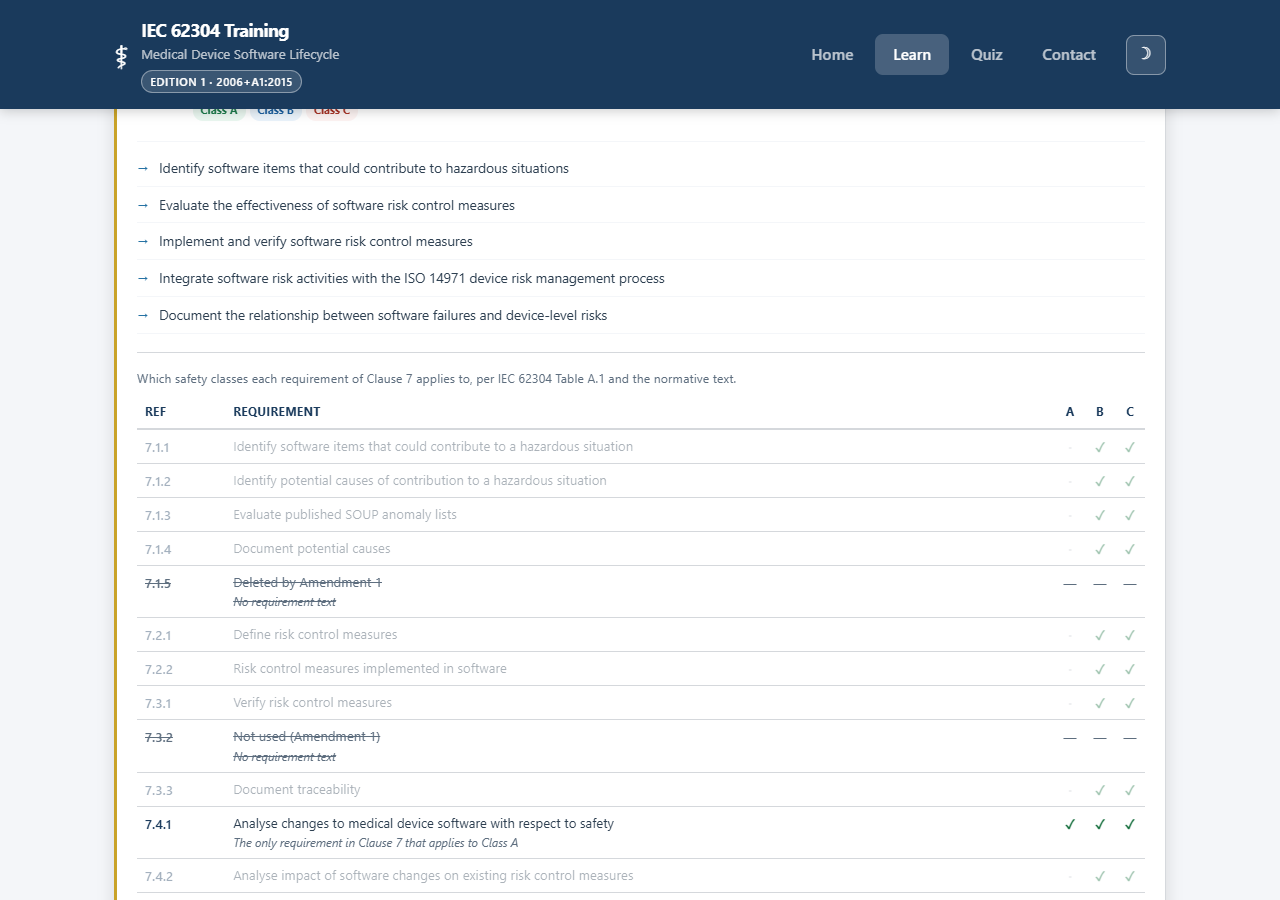
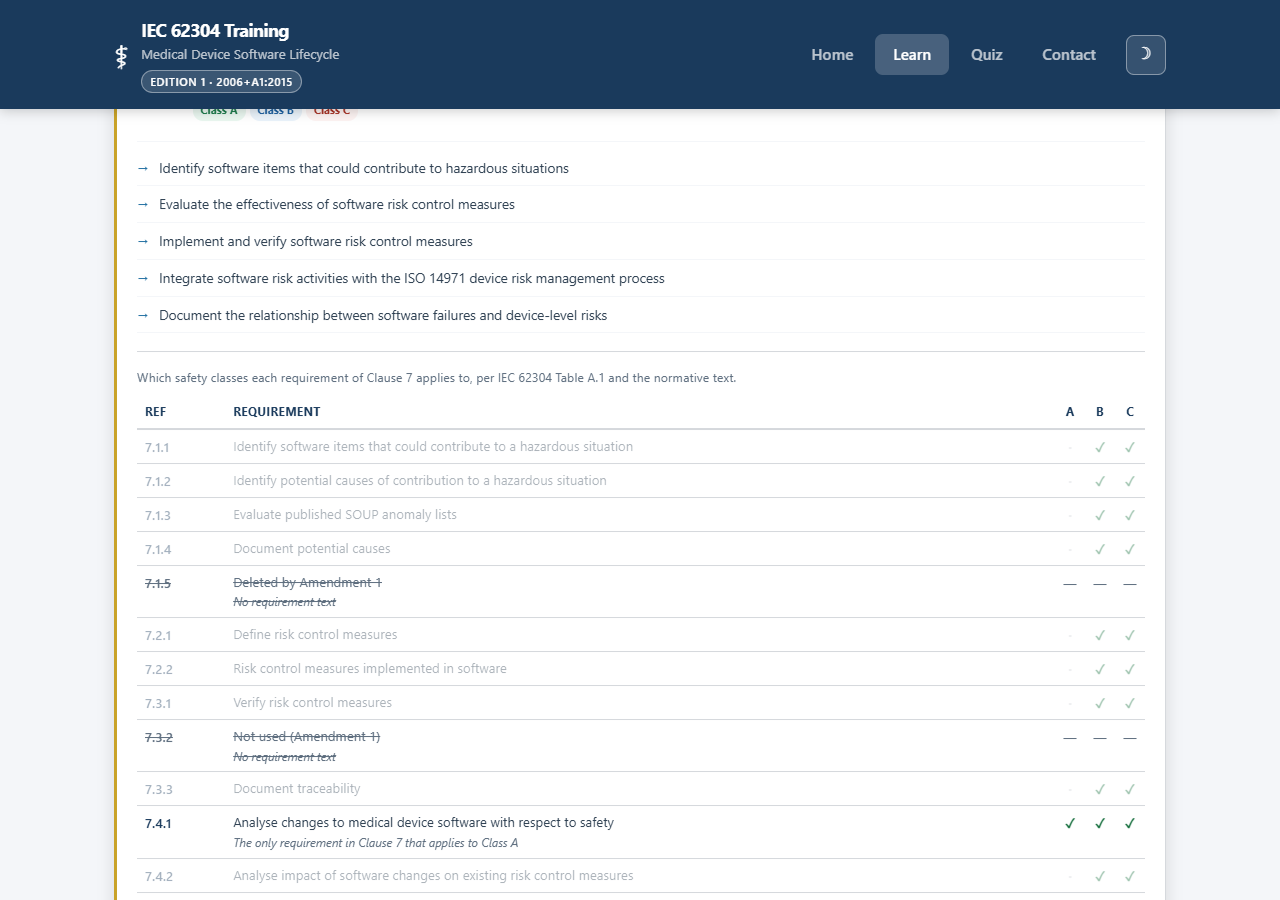
Ensure topics marked as studied have been opened by checking if the document was previewed or document before allowing an item to be marked as studied.  Update testing to reflect this change as well as requirements docs and README.

diff --git a/docs/08-software-system-testing.html b/docs/08-software-system-testing.html
@@ -73,13 +73,13 @@
 <div class="doc-table-wrap" tabindex="0" role="group" aria-label="Table: Ref, Title, Applies at, Output"><table class="legal-table"><thead><tr><th scope="col">Ref</th><th scope="col">Title</th><th scope="col">Applies at</th><th scope="col">Output</th></tr></thead><tbody><tr><td>5.7.1</td><td>Establish tests for software requirements</td><td>A, B, C</td><td>A set of tests covering all software requirements: input stimuli, expected outcomes, pass/fail criteria, procedures</td></tr><tr><td>5.7.2</td><td>Use software problem resolution process</td><td>A, B, C</td><td>—</td></tr><tr><td>5.7.3</td><td>Retest after changes</td><td>A, B, C</td><td>—</td></tr><tr><td>5.7.4</td><td>Evaluate software system testing</td><td>A, B, C</td><td>Recorded traceability between requirements and tests, plus evidence results meet pass/fail criteria</td></tr><tr><td>5.7.5</td><td>Test record contents</td><td>A, B, C</td><td>Test case reference, result and anomalies, software version tested, hardware/software test configuration, test tools, date, tester identity</td></tr></tbody></table></div>
 <p>(All five apply to every class — Amendment 1 moved 5.7 from B/C-only to all classes; see <a href="../index.html#safety-class-applicability">README.md — Safety Class Applicability</a> for why that history matters to how this data is maintained.)</p>
 <h2 id="571--the-test-set">5.7.1 — The test set</h2>
-<p><a href="../tests/test_site.py"><code>tests/test_site.py</code></a> is this project's system test suite: <strong>601 checks</strong> across 12 groups, run against a real Chrome/Chromium browser driven by Playwright, over a server the script starts itself. Its own docstring states the design directly:</p>
+<p><a href="../tests/test_site.py"><code>tests/test_site.py</code></a> is this project's system test suite: <strong>606 checks</strong> across 12 groups, run against a real Chrome/Chromium browser driven by Playwright, over a server the script starts itself. Its own docstring states the design directly:</p>
 <blockquote><p><em>"It is a black-box test suite. It does not import or inspect the site's JavaScript; it drives the pages the way a person would — clicking, typing, reading what appears — and asserts on the result."</em></p></blockquote>
 <div class="doc-table-wrap" tabindex="0" role="group" aria-label="Table: Group, What it covers"><table class="legal-table"><thead><tr><th scope="col">Group</th><th scope="col">What it covers</th></tr></thead><tbody><tr><td><code>data</code></td><td>JSON parses; correct counts; no duplicate ids/questions; every <code>correct</code> index in range; all required fields present</td></tr><tr><td><code>applicability</code></td><td>Sub-clause mapping is complete; clause-level classes equal the union of sub-clause classes; spot checks against the standard; rendered rows/counts; <strong>regression test reintroducing the original Clause 7 error</strong></td></tr><tr><td><code>deliverables</code></td><td>Per-class output counts; CSV filename/BOM/CRLF/columns/escaping; print output; §4.1/§4.2 cross-references</td></tr><tr><td><code>docs</code></td><td>Every card's example-document Preview/Download links resolve correctly; every rendered page in this folder loads without a JS error, carries the training-example banner, links back to the right card, has no horizontal overflow, and passes axe</td></tr><tr><td><code>learn</code></td><td>Card rendering; expand/collapse by mouse and keyboard; level toggle; class filters; filter notice; progress tracker; async failure paths (404, malformed JSON, empty list, retry)</td></tr><tr><td><code>quiz</code></td><td>Name validation; scoring; timer; full pass/fail runs; certificate; shuffling; prefetch; error states</td></tr><tr><td><code>contact</code></td><td>Field validation; request contents; success/422/429/404/503/network-failure paths; double-submit guard; honeypot</td></tr><tr><td><code>privacy</code></td><td>Notice content; footer links; provenance section</td></tr><tr><td><code>version</code></td><td>Version chip; Edition 2 notice; machine-readable review date</td></tr><tr><td><code>theme</code></td><td>Toggle, persistence, no-flash, print stays light</td></tr><tr><td><code>a11y</code></td><td>axe-core WCAG 2.1 A/AA + best practice, light <strong>and</strong> dark, across loading/error/mid-quiz/feedback/results states; keyboard and focus behaviour</td></tr><tr><td><code>responsive</code></td><td>No horizontal overflow at four widths; iOS auto-zoom prevention; tap target sizes; 200% zoom equivalent</td></tr></tbody></table></div>
 <h2 id="572--problem-resolution-process-used">5.7.2 — Problem resolution process used</h2>
 <p>Every failing check in a run is fed into <a href="13-software-problem-resolution.html">13 — Problem Resolution</a>'s anomaly log automatically — see <code>reconcile_anomaly_log()</code> in <a href="../tests/test_site.py"><code>tests/test_site.py</code></a>. This is not a manual step a tester has to remember; it happens on every run, pass or fail.</p>
 <h2 id="573--retest-after-changes">5.7.3 — Retest after changes</h2>
-<p>The suite is not partitioned by "what changed" — a full run re-executes all 601 checks every time, which is retesting by construction rather than by a documented policy of selecting which tests apply to a given change (the same trade-off noted for regression testing in <a href="07-software-integration-and-testing.html#566--regression">07</a>). <code>--group</code> exists to run a subset during active development, but a change is not considered verified until the full run passes.</p>
+<p>The suite is not partitioned by "what changed" — a full run re-executes all 606 checks every time, which is retesting by construction rather than by a documented policy of selecting which tests apply to a given change (the same trade-off noted for regression testing in <a href="07-software-integration-and-testing.html#566--regression">07</a>). <code>--group</code> exists to run a subset during active development, but a change is not considered verified until the full run passes.</p>
 <h2 id="574--traceability-and-evaluation">5.7.4 — Traceability and evaluation</h2>
 <p>Traceability from requirement to test exists at <strong>group</strong> granularity — see <a href="03-software-requirements-specification.html">03 — Requirements Specification</a>, where every REQ-ID cites the test group that verifies it. Evidence that results meet pass/fail criteria is the console report <code>R.report()</code> produces at the end of every run: a pass/fail count and a <code>FAILURES</code> section naming exactly which check, in which group, and what it returned instead of the expected value.</p>
 <h2 id="575--test-record-contents">5.7.5 — Test record contents</h2>

diff --git a/docs/03-software-requirements-specification.html b/docs/03-software-requirements-specification.html
@@ -80,7 +80,7 @@
 <h3 id="home-indexhtml">Home (<code>index.html</code>)</h3>
 <div class="doc-table-wrap" tabindex="0" role="group" aria-label="Table: ID, Requirement, Verified by"><table class="legal-table"><thead><tr><th scope="col">ID</th><th scope="col">Requirement</th><th scope="col">Verified by</th></tr></thead><tbody><tr><td>REQ-07</td><td>States the standard's edition and that Edition 2 is not covered, in the hero content</td><td><code>version</code></td></tr><tr><td>REQ-08</td><td>Shows the topic count sourced from the same data the Learn page renders, not a separate hardcoded figure</td><td><code>privacy</code> (home page topic count matches the data)</td></tr></tbody></table></div>
 <h3 id="learn-learnhtml">Learn (<code>learn.html</code>)</h3>
-<div class="doc-table-wrap" tabindex="0" role="group" aria-label="Table: ID, Requirement, Verified by"><table class="legal-table"><thead><tr><th scope="col">ID</th><th scope="col">Requirement</th><th scope="col">Verified by</th></tr></thead><tbody><tr><td>REQ-09</td><td>Renders one card per topic from <code>data/phases.json</code>, asynchronously, with loading/error/retry states</td><td><code>learn</code></td></tr><tr><td>REQ-10</td><td>Each card expands/collapses by mouse and keyboard (Enter/Space), with <code>aria-expanded</code> kept correct</td><td><code>learn</code></td></tr><tr><td>REQ-11</td><td>A level toggle (Introductory/Advanced) swaps bullet content in place without losing expanded or studied state; the choice persists to <code>localStorage</code></td><td><code>learn</code></td></tr><tr><td>REQ-12</td><td>A safety-class filter (A/B/C/all) shows/hides cards using the sub-clause data, not a hardcoded per-clause list, and flags partially-applicable cards</td><td><code>applicability</code></td></tr><tr><td>REQ-13</td><td>Selecting a class reveals a live-region notice naming every omitted or partially-applicable area and why, including a standing ISO 14971 caution</td><td><code>learn</code></td></tr><tr><td>REQ-14</td><td>Selecting a class generates a deliverables list (on screen, CSV, and print) of the documented outputs required at that class</td><td><code>deliverables</code></td></tr><tr><td>REQ-15</td><td>The site refuses to render Learn content if <code>phases.json</code> and <code>applicability.json</code> disagree on a clause's classes, and names the disagreement</td><td><code>applicability</code></td></tr><tr><td>REQ-16</td><td>A progress tracker lets a visitor mark topics as studied and shows a running count</td><td><code>learn</code></td></tr></tbody></table></div>
+<div class="doc-table-wrap" tabindex="0" role="group" aria-label="Table: ID, Requirement, Verified by"><table class="legal-table"><thead><tr><th scope="col">ID</th><th scope="col">Requirement</th><th scope="col">Verified by</th></tr></thead><tbody><tr><td>REQ-09</td><td>Renders one card per topic from <code>data/phases.json</code>, asynchronously, with loading/error/retry states</td><td><code>learn</code></td></tr><tr><td>REQ-10</td><td>Each card expands/collapses by mouse and keyboard (Enter/Space), with <code>aria-expanded</code> kept correct</td><td><code>learn</code></td></tr><tr><td>REQ-11</td><td>A level toggle (Introductory/Advanced) swaps bullet content in place without losing expanded or studied state; the choice persists to <code>localStorage</code></td><td><code>learn</code></td></tr><tr><td>REQ-12</td><td>A safety-class filter (A/B/C/all) shows/hides cards using the sub-clause data, not a hardcoded per-clause list, and flags partially-applicable cards</td><td><code>applicability</code></td></tr><tr><td>REQ-13</td><td>Selecting a class reveals a live-region notice naming every omitted or partially-applicable area and why, including a standing ISO 14971 caution</td><td><code>learn</code></td></tr><tr><td>REQ-14</td><td>Selecting a class generates a deliverables list (on screen, CSV, and print) of the documented outputs required at that class</td><td><code>deliverables</code></td></tr><tr><td>REQ-15</td><td>The site refuses to render Learn content if <code>phases.json</code> and <code>applicability.json</code> disagree on a clause's classes, and names the disagreement</td><td><code>applicability</code></td></tr><tr><td>REQ-16</td><td>A progress tracker lets a visitor mark topics as studied and shows a running count</td><td><code>learn</code></td></tr><tr><td>REQ-16a</td><td>A topic cannot be marked studied until its example document has been opened (Preview or Download); a blocked attempt shows an inline message, expands the card, and moves focus to the Preview link</td><td><code>learn</code></td></tr></tbody></table></div>
 <h3 id="quiz-quizhtml">Quiz (<code>quiz.html</code>)</h3>
 <div class="doc-table-wrap" tabindex="0" role="group" aria-label="Table: ID, Requirement, Verified by"><table class="legal-table"><thead><tr><th scope="col">ID</th><th scope="col">Requirement</th><th scope="col">Verified by</th></tr></thead><tbody><tr><td>REQ-17</td><td>Two 15-question sets (Introductory/Advanced); only the set matching the visitor's chosen level is downloaded</td><td><code>quiz</code></td></tr><tr><td>REQ-18</td><td>Questions are presented in randomised order with a 30-second per-question timer and immediate feedback</td><td><code>quiz</code></td></tr><tr><td>REQ-19</td><td>An 80% pass mark produces a certificate reflecting the training level completed, downloadable and print-formatted</td><td><code>quiz</code></td></tr><tr><td>REQ-20</td><td>A timed-out or failed run is handled explicitly, not just a passing run</td><td><code>quiz</code></td></tr></tbody></table></div>
 <h3 id="contact-contacthtml">Contact (<code>contact.html</code>)</h3>

diff --git a/learn.js b/learn.js
@@ -55,6 +55,13 @@ let phases = [];
 // which phase IDs the user has marked as studied (no duplicates possible).
 const studiedPhases = new Set();
 
+// Which phases the visitor has actually opened the example document for —
+// via either the Preview link or the Download link, either one counts as
+// having engaged with it. Checked by markStudied() before it allows a topic
+// to be marked studied. Not persisted, the same as studiedPhases: both are
+// scoped to the current page visit.
+const previewedDocs = new Set();
+
 // Tracks the currently active safety-class filter so applyFilter() always
 // knows which button to highlight when the grid re-renders.
 let activeFilter = 'all';
@@ -289,6 +296,12 @@ function renderPhases() {
         buildExampleDocBlock(phase) +
       '</div>' +
       '<div class="phase-footer">' +
+        // role="alert" makes this a live region: a screen reader announces
+        // its content the moment markStudied() fills it in, the same
+        // pattern #participant-name-error uses on the quiz page. Empty by
+        // default, and .field-error reserves its line height even then, so
+        // showing the message never shifts the button underneath it.
+        '<span class="field-error" id="studied-error-' + phase.id + '" role="alert"></span>' +
         '<span class="studied-badge">&#10003; Studied</span>' +
         '<button class="btn btn-secondary mark-studied-btn" data-id="' + phase.id + '"' + (isStudied ? ' disabled' : '') + '>' +
           (isStudied ? '&#10003; Studied' : 'Mark as Studied') +
@@ -597,10 +610,12 @@ function buildExampleDocBlock(phase) {
         'deliverable.' +
       '</p>' +
       '<div class="example-doc-actions">' +
-        '<a class="btn btn-secondary" href="' + previewHref + '" target="_blank" rel="noopener"' +
+        '<a class="btn btn-secondary example-doc-preview" href="' + previewHref + '"' +
+          ' target="_blank" rel="noopener" data-id="' + phase.id + '"' +
           ' aria-label="Preview example document for ' + phase.title + '">' +
           'Preview example document</a>' +
-        '<a class="btn btn-secondary" href="' + downloadHref + '" download' +
+        '<a class="btn btn-secondary example-doc-download" href="' + downloadHref + '" download' +
+          ' data-id="' + phase.id + '"' +
           ' aria-label="Download example document for ' + phase.title + ' as Markdown">' +
           'Download (.md)</a>' +
       '</div>' +
@@ -664,8 +679,20 @@ function setLevel(level) {
 
 // ---------- CLICK HANDLER (event delegation) ----------
 function handleCardClick(e) {
+  const docLink = e.target.closest('.example-doc-actions a');
   const studiedBtn = e.target.closest('.mark-studied-btn');
   const header = e.target.closest('.phase-header');
+
+  // Preview and Download are real <a> tags with a real href — this handler
+  // never calls preventDefault, so the browser still opens the tab or starts
+  // the download on its own. All this does is RECORD that it happened, which
+  // is what markStudied() checks before it allows the topic to be studied.
+  if (docLink && docLink.dataset.id) {
+    previewedDocs.add(docLink.dataset.id);
+    const err = document.getElementById('studied-error-' + docLink.dataset.id);
+    if (err) err.textContent = '';
+    return;
+  }
 
   if (studiedBtn) {
     markStudied(studiedBtn.dataset.id);
@@ -690,14 +717,48 @@ function togglePhaseCard(id) {
 }
 
 // ---------- MARK AS STUDIED ----------
+//
+// A topic can only be marked studied once its example document has been
+// opened at least once — Preview or Download, either counts (see
+// handleCardClick). This is enforced here rather than by disabling the
+// button up front: the quiz's name field validates the same way, on the
+// attempt rather than by pre-emptively disabling Begin Assessment, because a
+// disabled control gives a screen reader user no way to discover why it is
+// inert. Only enforced for phases that actually HAVE an example document —
+// buildExampleDocBlock() already guards the same condition, so a future
+// topic added without one is simply not gated.
 function markStudied(id) {
   if (studiedPhases.has(id)) return;
-
-  studiedPhases.add(id);
 
   const card = document.getElementById('phase-' + id);
   if (!card) return;
 
+  const errorEl = document.getElementById('studied-error-' + id);
+  const hasExampleDoc = !!card.querySelector('.example-doc');
+
+  if (hasExampleDoc && !previewedDocs.has(id)) {
+    if (errorEl) {
+      errorEl.textContent = 'Preview or download the example document above before marking this topic as studied.';
+    }
+    // The example document lives inside .phase-details, which is collapsed
+    // (display: none) unless the card is expanded — clicking Mark as Studied
+    // does not require the card to be open, so without this the reader would
+    // see an error pointing at a link they cannot see. Expanding it and
+    // moving focus to the Preview link turns the error into a next step
+    // rather than a dead end.
+    if (!card.classList.contains('expanded')) {
+      card.classList.add('expanded');
+      const header = card.querySelector('.phase-header');
+      if (header) header.setAttribute('aria-expanded', 'true');
+    }
+    const previewLink = card.querySelector('.example-doc-preview');
+    if (previewLink) previewLink.focus();
+    return;
+  }
+
+  if (errorEl) errorEl.textContent = '';
+
+  studiedPhases.add(id);
   card.classList.add('studied');
 
   const btn = card.querySelector('.mark-studied-btn');

diff --git a/docs/index.html b/docs/index.html
@@ -81,7 +81,7 @@
 <h2 id="how-to-read-applies-to-class-c-in-these-documents">How to read "applies to Class C" in these documents</h2>
 <p>A sub-clause "applies to Class C" if its <code>classes</code> array in <code>applicability.json</code> contains <code>"C"</code>. In this data set that is true of every sub-clause that has any requirement at all — <code>["C"]</code>, <code>["B","C"]</code>, and <code>["A","B","C"]</code> are all included; only <code>7.1.5</code> and <code>7.3.2</code>, which Amendment 1 deleted outright, are excluded. So each table below is, in effect, "every live requirement of this clause." See <a href="../index.html#safety-class-applicability">README.md — Safety Class Applicability</a> for why the mapping is recorded at this level of detail in the first place.</p>
 <h2 id="cross-references-used-throughout">Cross-references used throughout</h2>
-<ul><li><strong><code>applicability.json</code></strong> — the regulatory mapping; <code>ref</code>, <code>title</code>, <code>classes</code> and <code>output</code> fields are quoted verbatim in each document's requirements table.</li><li><strong><a href="../DESIGN.html">DESIGN.md</a></strong> — page-by-page design rationale, JavaScript architecture, and the safety-classification defect narrative referenced in <a href="11-software-risk-management-file.html">11 — Risk Management File</a>.</li><li><strong><a href="../index.html">README.md</a></strong> — features, testing, and the anomaly log.</li><li><strong><a href="../tests/test_site.py"><code>tests/test_site.py</code></a></strong> — the system test suite (601 checks across 12 groups) that is this project's primary verification evidence.</li><li><strong><a href="../tests/anomaly_log.csv"><code>tests/anomaly_log.csv</code></a></strong> — the standing problem log described in <a href="13-software-problem-resolution.html">13 — Problem Resolution</a>.</li><li><strong><code>git log</code></strong> — the configuration history; see <a href="12-software-configuration-management-plan.html">12 — Configuration Management Plan</a>.</li></ul>
+<ul><li><strong><code>applicability.json</code></strong> — the regulatory mapping; <code>ref</code>, <code>title</code>, <code>classes</code> and <code>output</code> fields are quoted verbatim in each document's requirements table.</li><li><strong><a href="../DESIGN.html">DESIGN.md</a></strong> — page-by-page design rationale, JavaScript architecture, and the safety-classification defect narrative referenced in <a href="11-software-risk-management-file.html">11 — Risk Management File</a>.</li><li><strong><a href="../index.html">README.md</a></strong> — features, testing, and the anomaly log.</li><li><strong><a href="../tests/test_site.py"><code>tests/test_site.py</code></a></strong> — the system test suite (606 checks across 12 groups) that is this project's primary verification evidence.</li><li><strong><a href="../tests/anomaly_log.csv"><code>tests/anomaly_log.csv</code></a></strong> — the standing problem log described in <a href="13-software-problem-resolution.html">13 — Problem Resolution</a>.</li><li><strong><code>git log</code></strong> — the configuration history; see <a href="12-software-configuration-management-plan.html">12 — Configuration Management Plan</a>.</li></ul>
       </div>
 
     </div>

diff --git a/docs/07-software-integration-and-testing.html b/docs/07-software-integration-and-testing.html
@@ -79,7 +79,7 @@
 <h2 id="563567--integration-testing-honestly">5.6.3–5.6.7 — Integration testing, honestly</h2>
 <p><strong>This project does not run a distinct integration test phase.</strong> The <code>learn — async loading and failure</code> group in <a href="../tests/test_site.py"><code>tests/test_site.py</code></a> exercises exactly the kind of thing 5.6.3 asks for — what happens when <code>data/phases.json</code> 404s, arrives malformed, or is empty — but it runs as part of the same suite and the same pass/fail report as system testing, with no separate integration test plan, procedure evaluation, or record set of its own.</p>
 <h2 id="566--regression">5.6.6 — Regression</h2>
-<p>Regression is real but implicit: every run of <a href="../tests/test_site.py"><code>tests/test_site.py</code></a> re-checks all 601 checks, not only the ones related to whatever just changed, so a change to <code>theme.js</code> that broke <code>learn.js</code>'s rendering would be caught by the <code>learn</code> group even though nobody thought to re-run it deliberately. That is regression coverage by construction rather than by a documented regression <em>plan</em> naming which tests must re-run after which kind of change.</p>
+<p>Regression is real but implicit: every run of <a href="../tests/test_site.py"><code>tests/test_site.py</code></a> re-checks all 606 checks, not only the ones related to whatever just changed, so a change to <code>theme.js</code> that broke <code>learn.js</code>'s rendering would be caught by the <code>learn</code> group even though nobody thought to re-run it deliberately. That is regression coverage by construction rather than by a documented regression <em>plan</em> naming which tests must re-run after which kind of change.</p>
 <h2 id="568--problem-resolution-process-used">5.6.8 — Problem resolution process used</h2>
 <p>Where it applies: yes — see <a href="13-software-problem-resolution.html">13 — Problem Resolution</a>. Anomalies found anywhere in the test run, integration-shaped or not, flow into the same <code>tests/anomaly_log.csv</code>.</p>
 <h2 id="gaps">Gaps</h2>

diff --git a/style.css b/style.css
@@ -1535,11 +1535,22 @@ a {
 
 .phase-footer {
   display: flex;
+  flex-wrap: wrap; /* lets .field-error below drop to its own full-width row */
   align-items: center;
   justify-content: flex-end;
   padding: 12px 20px;
   border-top: 1px solid var(--bg);
-  gap: 12px;
+  gap: 4px 12px;
+}
+
+/* The "preview the document first" message. flex-basis: 100% forces it onto
+   its own row above the badge/button regardless of source order, matching
+   how a form field's error sits on its own line under the field it belongs
+   to rather than squeezed into the same row. */
+.phase-footer .field-error {
+  flex: 1 0 100%;
+  text-align: right;
+  margin-top: 0;
 }
 
 /* FIX: was --success-light (#27ae60) on a white card — 2.87:1 at 12.5px. Another

diff --git a/tests/test_site.py b/tests/test_site.py
@@ -1274,7 +1274,27 @@ def test_learn(browser, base):
     pg.wait_for_timeout(200)
     R.check('returning to All hides the notice again', notice.is_hidden())
 
-    # progress tracker
+    # progress tracker — marking a topic studied now requires having opened
+    # its example document first (Preview or Download counts, see
+    # markStudied() in learn.js). The first attempt below is expected to be
+    # BLOCKED, not to succeed.
+    first_id = pg.locator('.phase-card').first.get_attribute('id').replace('phase-', '', 1)
+    pg.locator('.mark-studied-btn').first.click()
+    R.check('marking studied without previewing the document is blocked',
+            'preview or download' in norm(pg.locator('#studied-error-' + first_id).inner_text())
+            and pg.locator('#progress-count').inner_text() == '0',
+            pg.locator('#studied-error-' + first_id).inner_text())
+    R.check('a blocked attempt auto-expands the card so the document is visible',
+            'expanded' in (pg.locator('.phase-card').first.get_attribute('class') or ''))
+    R.check('focus moves to the Preview link',
+            pg.evaluate("() => document.activeElement.classList.contains('example-doc-preview')"))
+
+    with pg.expect_popup() as preview_popup:
+        pg.locator('.example-doc-preview').first.click()
+    preview_popup.value.close()
+    R.check('the block clears once the document has been opened',
+            pg.locator('#studied-error-' + first_id).inner_text() == '')
+
     pg.locator('.mark-studied-btn').first.click()
     R.check('marking studied increments the count',
             pg.locator('#progress-count').inner_text() == '1',
@@ -1285,6 +1305,21 @@ def test_learn(browser, base):
     R.check('progress bar width updates', width and width != '0%', width)
     R.check('progressbar exposes aria-valuenow',
             pg.locator('.progress-bar-container').get_attribute('aria-valuenow') is not None)
+
+    # Downloading (rather than previewing) must satisfy the same requirement —
+    # either action demonstrates the document was actually opened.
+    ctx2, pg2 = new_page(browser, accept_downloads=True)
+    pg2.goto(base + '/learn.html')
+    pg2.wait_for_selector('.phase-card', timeout=10000)
+    second_id = pg2.locator('.phase-card').nth(1).get_attribute('id').replace('phase-', '', 1)
+    pg2.locator('.mark-studied-btn').nth(1).click()  # blocked; expands the card
+    with pg2.expect_download():
+        pg2.locator('.example-doc-download').nth(1).click()
+    pg2.locator('.mark-studied-btn').nth(1).click()
+    R.check('downloading the example document also satisfies the requirement',
+            pg2.locator('#progress-count').inner_text() == '1',
+            pg2.locator('#studied-error-' + second_id).inner_text())
+    ctx2.close()
 
     R.check('no JavaScript errors', not pg.js_errors, pg.js_errors)
     ctx.close()
@@ -2159,6 +2194,10 @@ def test_a11y_dark(browser, base, axe_src):
         ctx, pg = dark_ctx(browser, scheme)
         pg.goto(base + '/learn.html')
         pg.wait_for_selector('.phase-card', timeout=10000)
+        pg.locator('.mark-studied-btn').first.click()  # blocked; auto-expands the card
+        with pg.expect_popup() as popup:
+            pg.locator('.example-doc-preview').first.click()
+        popup.value.close()
         pg.locator('.mark-studied-btn').first.click()
         pg.wait_for_timeout(250)
         R.check('%s: card is marked studied' % scheme,

diff --git a/tests/capture_screenshots.py b/tests/capture_screenshots.py
@@ -156,6 +156,23 @@ def main():
                 shoot(pg, 'learn-classA-deliverables-light')
                 ctx.close()
 
+                # ---- Learn: the "preview it first" requirement, blocked ----
+                # A blank card, an attempt to mark it studied without opening
+                # its example document, and the result: an inline message,
+                # the card auto-expanded, and focus on the Preview link.
+                ctx, pg = new_page(browser, 'light')
+                pg.goto(base + '/learn.html')
+                pg.wait_for_selector('.phase-card', timeout=10000)
+                pg.locator('#update-banner-close').click()
+                pg.locator('#phase-planning .mark-studied-btn').click()
+                pg.wait_for_timeout(200)
+                pg.evaluate(
+                    "() => document.querySelector('#phase-planning .example-doc')"
+                    ".scrollIntoView({block: 'center'})")
+                pg.wait_for_timeout(150)
+                shoot(pg, 'learn-studied-blocked-light')
+                ctx.close()
+
                 # ---- Quiz ----
                 ctx, pg = new_page(browser, 'light')
                 pg.goto(base + '/quiz.html')

diff --git a/README.md b/README.md
@@ -25,7 +25,7 @@ all of this, so it cannot quietly disappear in a redesign.
 ## Features
 
 - **Home page** — Introduction to IEC 62304 with key statistics
-- **Learn page** — 13 expandable topic cards covering Clauses 4–9, loaded from JSON; generates the deliverables required at the selected safety class, on screen, as CSV or printed; toggle between Introductory and Advanced depth; filter by safety class (A/B/C) with a notice distinguishing *applies in full*, *applies in part* and *does not apply*, naming the specific sub-clauses, plus a standing ISO 14971 caution; each card carries a per-sub-clause applicability table; each card also links to a worked example of the document that process area would produce — previewable online or downloadable as markdown, clearly marked as a training example and not a genuine regulatory deliverable (see [docs/](docs/README.md)); study progress tracker
+- **Learn page** — 13 expandable topic cards covering Clauses 4–9, loaded from JSON; generates the deliverables required at the selected safety class, on screen, as CSV or printed; toggle between Introductory and Advanced depth; filter by safety class (A/B/C) with a notice distinguishing *applies in full*, *applies in part* and *does not apply*, naming the specific sub-clauses, plus a standing ISO 14971 caution; each card carries a per-sub-clause applicability table; each card also links to a worked example of the document that process area would produce — previewable online or downloadable as markdown, clearly marked as a training example and not a genuine regulatory deliverable (see [docs/](docs/README.md)); study progress tracker, which requires the example document to have been opened at least once before a topic can be marked studied
 - **Quiz page** — two 15-question assessments (Introductory and Advanced), with only the set matching your chosen level downloaded; randomised order, 30-second timer per question, immediate feedback, and a pass/fail results screen; 80% pass mark earns a downloadable certificate that reflects the training level completed
 - **Contact page** — Feedback form with real-time client-side validation and asynchronous submission to a live Formspree endpoint (no page reload), including a request timeout and field-level server error reporting
 - **Privacy page** — Data protection notice covering what the contact form collects, the transfer to Formspree in the US, browser storage, and visitors' rights; linked from every footer and summarised beneath the Send button. Also carries a **content provenance** section: where the course content, the safety class mapping and the Edition 2 status each come from, a disclaimer of IEC affiliation, and confirmation that no request of yours reaches IEC
@@ -55,6 +55,10 @@ deliverables panel (expanded here) lists the documented output each
 applicable requirement calls for.
 
 ![Learn page filtered to Class A, Clause 7 expanded, deliverables list open](docs/assets/screenshots/learn-classA-deliverables-light.png)
+
+Marking a topic studied is blocked until its example document has been opened at least once — the attempt below auto-expanded the card and moved focus to the Preview link:
+
+![Learn page: marking a topic studied is blocked with an inline message until the example document has been opened](docs/assets/screenshots/learn-studied-blocked-light.png)
 
 | Light (default view) | Dark |
 |---|---|
@@ -548,7 +552,7 @@ Knowing when *not* to use a tool matters as much as knowing how.
 
 ## Testing
 
-The site ships with an automated test suite: **601 checks** covering content
+The site ships with an automated test suite: **606 checks** covering content
 integrity, every interactive feature, the asynchronous success *and* failure
 paths, accessibility, and responsive layout.
 
@@ -589,7 +593,7 @@ python tests/test_site.py --group data --group a11y   # or several
 | `deliverables` | Per-class output counts derived from the data; panel hidden until a class is chosen; collapse/expand with `aria-expanded`; requirements with no artefact listed and labelled rather than dropped; CSV filename, UTF-8 BOM, CRLF, eight columns, comma escaping, and correct inclusion of 5.4.1 / 7.4.1 and exclusion of 5.1.4 and removed sub-clauses; print output; the §4.1 / §4.2 cross-references cite ISO 13485 and ISO 14971 on screen and in the CSV, **assert ISO 9001 is not presented as a route**, and are not mislabelled "decide for yourself"; **regression test that printing a non-quiz page is no longer blank** |
 | `applicability` | Sub-clause mapping is complete and well formed; **clause-level classes equal the union of their sub-clauses**; spot checks against the standard (7.4.1, 5.4.1, 5.3.5, 5.7.1, 6.2.3 …); 97 rendered rows; per-class visible/partial counts; and a **regression test that reintroduces the original Clause 7 error and requires the site to reject it** |
 | `docs` | Every Learn card's example-document Preview/Download links resolve to the right file with the right attributes; every rendered page under `docs/` loads without a JS error, carries the training-example banner, links back to the originating card, has no horizontal overflow, and passes axe |
-| `learn` | Cards render from JSON; expand/collapse by mouse *and* keyboard; level toggle swaps content in place without losing expanded state; class filters; **filter notice lists exactly the omitted areas and carries the ISO 14971 caution at every class**; progress tracker; banner dismissal persists; 404, malformed JSON, empty list, and retry recovery |
+| `learn` | Cards render from JSON; expand/collapse by mouse *and* keyboard; level toggle swaps content in place without losing expanded state; class filters; **filter notice lists exactly the omitted areas and carries the ISO 14971 caution at every class**; progress tracker, **including that marking a topic studied is blocked until its example document has been opened (Preview or Download), with the blocked attempt auto-expanding the card and moving focus to the Preview link**; banner dismissal persists; 404, malformed JSON, empty list, and retry recovery |
 | `quiz` | Name validation; scoring for correct, wrong and timed-out answers; timer counts down; full 15-question pass and fail runs; certificate contents; shuffling differs between attempts; prefetch downloads exactly one file; level selection; error states and retry |
 | `contact` | Field validation on blur and submit; request body contents and headers; "Sending…" state; success, 422 field errors, 429/404/503 fallbacks, network failure; double-submit guard; spam honeypot hidden three ways |
 | `privacy` | Notice covers the controller, processor, US transfer, retention and supervisory authority; footer link on all five pages; point-of-collection note; home page topic count matches the data; **content provenance** names the edition, the source of the class mapping and of the Edition 2 status, disclaims IEC affiliation, and states no visitor request reaches IEC |
@@ -681,7 +685,7 @@ Being honest about the limits matters more than a green tick:
 | `data/applicability.json` | **Regulatory mapping** — every sub-clause of Clauses 4–9, the safety classes it applies to, and the `output` field recording what the standard requires you to produce, and a `seeAlso` field for the two requirements 62304 satisfies by pointing at another standard |
 | `data/questions-intro.json` | **Content** — 15 introductory quiz questions |
 | `data/questions-advanced.json` | **Content** — 15 advanced, clause-referenced quiz questions |
-| `tests/test_site.py` | Automated test suite — 601 checks; starts its own server |
+| `tests/test_site.py` | Automated test suite — 606 checks; starts its own server |
 | `tests/requirements.txt` | Test-only dependency (Playwright); the site itself has none |
 | `tests/anomaly_log.csv` | **Generated, committed** — the standing anomaly/problem log described under [Anomaly log](#anomaly-log); updated by every test run |
 | `tests/capture_screenshots.py` | Generates the PNGs under `docs/assets/screenshots/` used in [Screenshots](#screenshots) above |

diff --git a/DESIGN.md b/DESIGN.md
@@ -126,6 +126,8 @@ The notice also now states which edition the course covers, since that is the po
 4. **Deliverables list** — selecting a class also generates the documented outputs required at that class, on screen, as a CSV download, or printed. Described in full under [Deliverables list](#deliverables-list) below.
 5. **Example artefact links** — every card carries a "Preview example document" and "Download (.md)" pair, pointing at this project's own worked example of the document that process area would produce (`docs/`, generated by `docs/render.py` — see [docs/README.md](docs/README.md)). Placed at the card level rather than inside the deliverables rows deliberately: the deliverables list's whole point is that it never invents a document name, and attaching one concrete file to a per-sub-clause row would blur that line. A card already carries a title for the whole process area, which is where a worked example belongs. Every such page opens with a training-example disclaimer stating plainly that this site is not a real medical device and the file is not a genuine regulatory deliverable.
 
+   **Marking a topic studied requires having opened its example document first** — either Preview or Download counts, `learn.js`'s `markStudied()` checks a `previewedDocs` set populated by the click on either link. This is deliberate: the study-progress tracker previously counted a topic as studied the moment its button was clicked, whether or not the card had even been expanded, which measured nothing. The check runs at the point of the attempt rather than by disabling the button up front — the same pattern the quiz's name field already uses, since a pre-emptively disabled control gives a screen reader user no way to discover why it's inert. A blocked attempt auto-expands the card (the document link lives inside the collapsed `.phase-details`, so a reader could otherwise be shown an error pointing at something they can't see) and moves focus to the Preview link, so the error is a next step rather than a dead end. The message itself lives in a `role="alert"` span with reserved height, the same `.field-error` treatment the contact and quiz forms already use, so nothing shifts when it appears.
+
 ---
 
 ### Safety class applicability

diff --git a/docs/08-software-system-testing.md b/docs/08-software-system-testing.md
@@ -24,7 +24,7 @@ for why that history matters to how this data is maintained.)
 ## 5.7.1 — The test set
 
 [`tests/test_site.py`](../tests/test_site.py) is this project's system test
-suite: **601 checks** across 12 groups, run against a real Chrome/Chromium
+suite: **606 checks** across 12 groups, run against a real Chrome/Chromium
 browser driven by Playwright, over a server the script starts itself. Its own
 docstring states the design directly:
 
@@ -57,7 +57,7 @@ tester has to remember; it happens on every run, pass or fail.
 ## 5.7.3 — Retest after changes
 
 The suite is not partitioned by "what changed" — a full run re-executes all
-601 checks every time, which is retesting by construction rather than by a
+606 checks every time, which is retesting by construction rather than by a
 documented policy of selecting which tests apply to a given change (the same
 trade-off noted for regression testing in
 [07](07-software-integration-and-testing.md#566--regression)).

diff --git a/docs/03-software-requirements-specification.md b/docs/03-software-requirements-specification.md
@@ -63,6 +63,7 @@ is the verification method for 5.2.6.
 | REQ-14 | Selecting a class generates a deliverables list (on screen, CSV, and print) of the documented outputs required at that class | `deliverables` |
 | REQ-15 | The site refuses to render Learn content if `phases.json` and `applicability.json` disagree on a clause's classes, and names the disagreement | `applicability` |
 | REQ-16 | A progress tracker lets a visitor mark topics as studied and shows a running count | `learn` |
+| REQ-16a | A topic cannot be marked studied until its example document has been opened (Preview or Download); a blocked attempt shows an inline message, expands the card, and moves focus to the Preview link | `learn` |
 
 ### Quiz (`quiz.html`)
 
